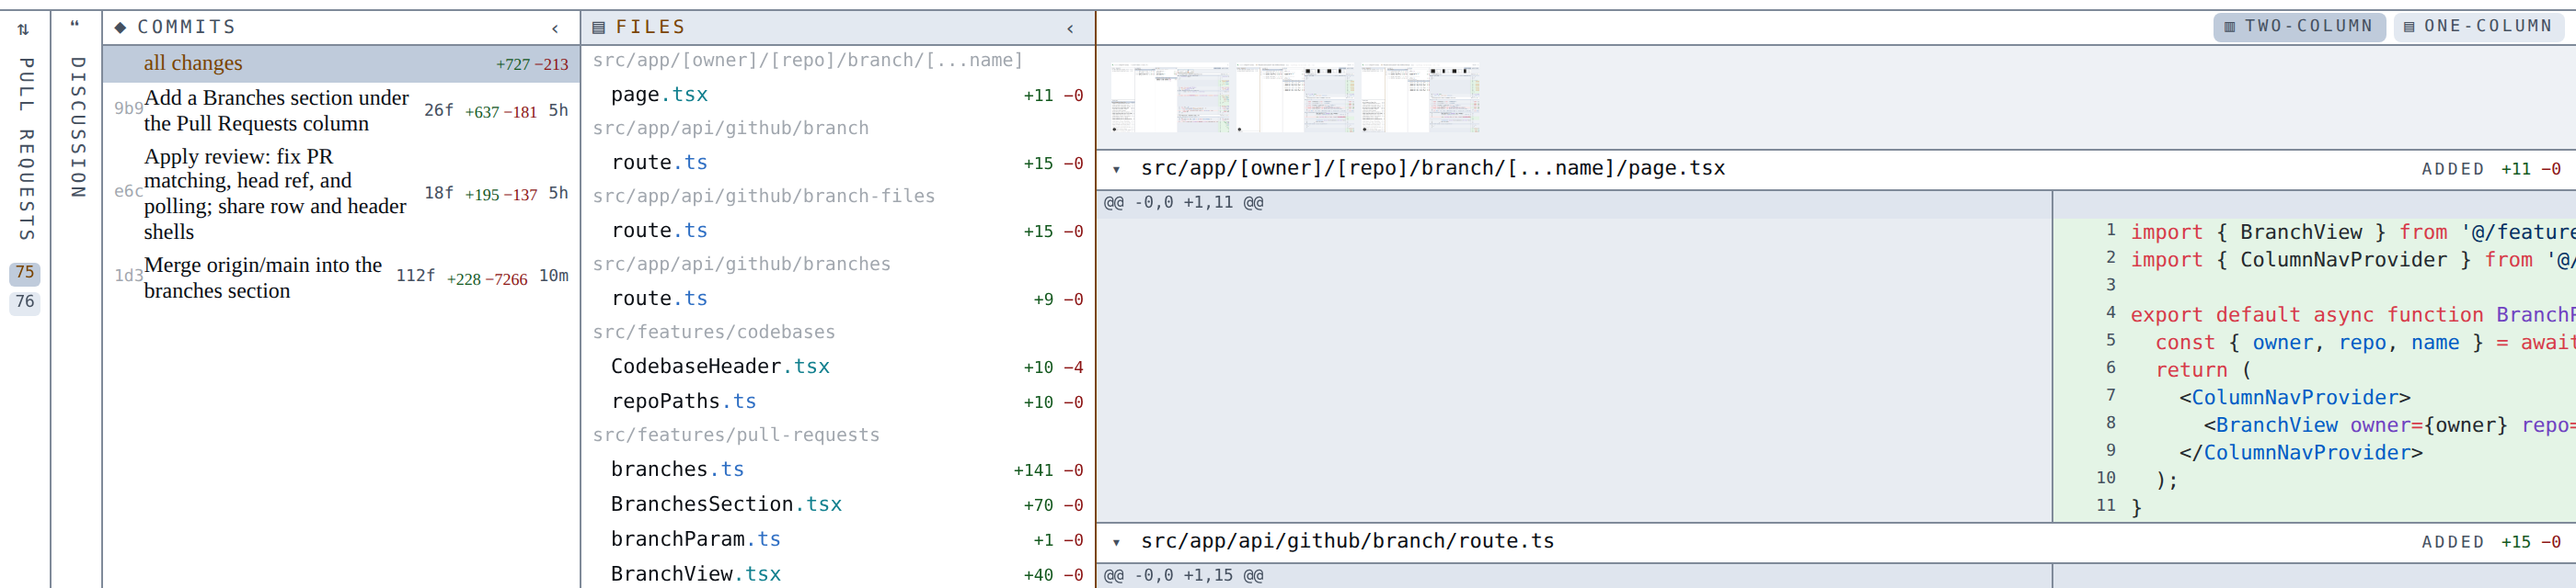
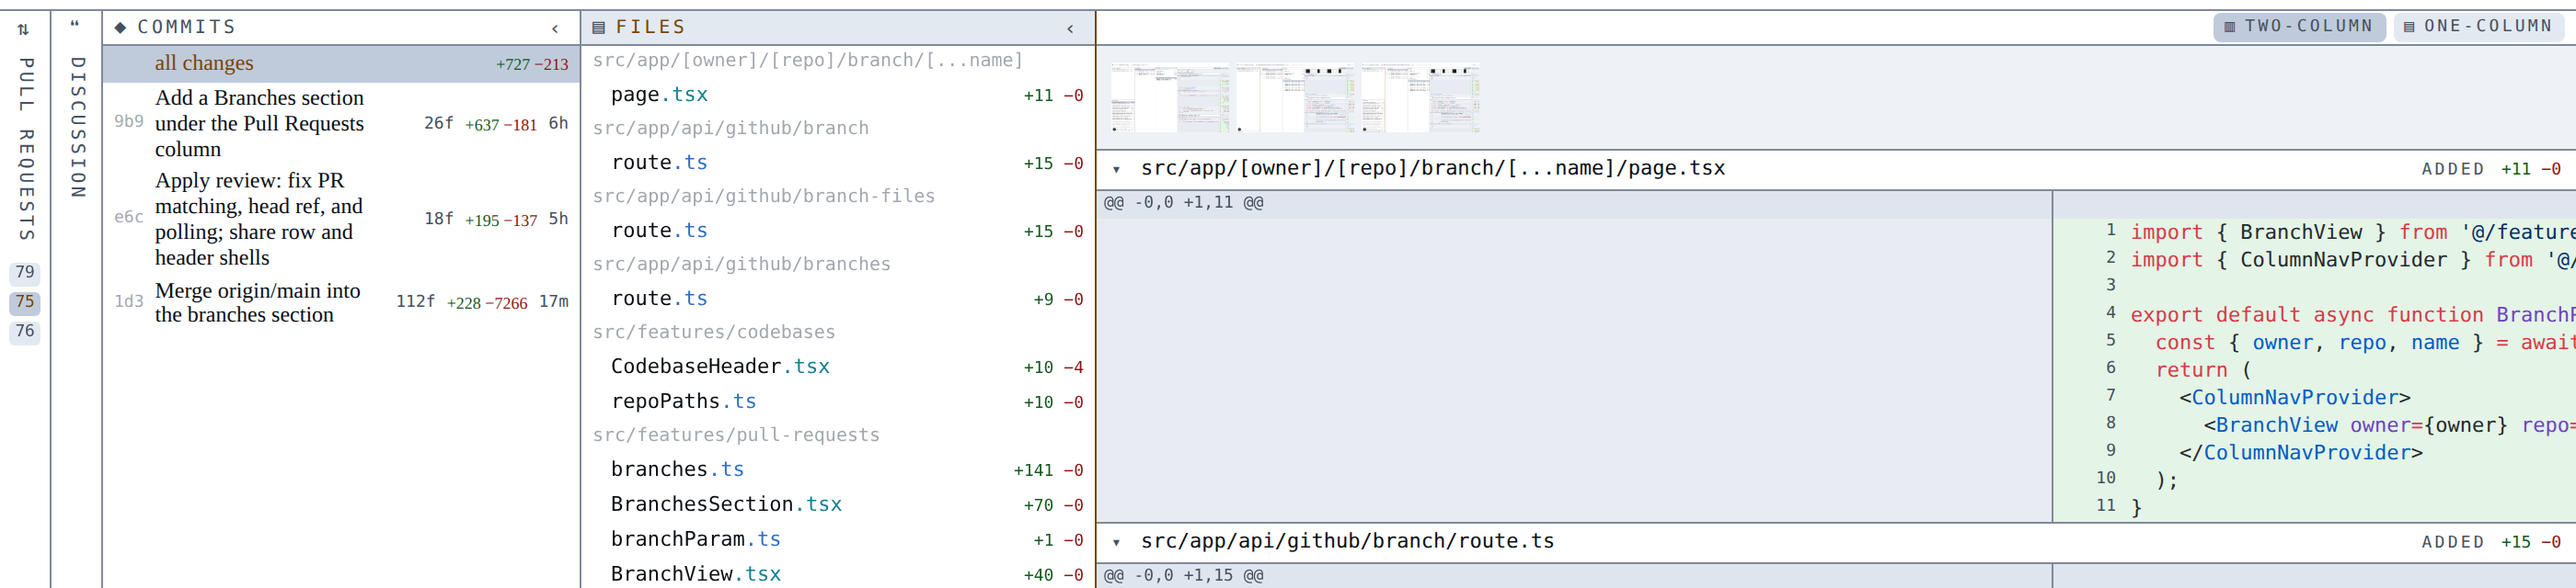
Apply review: share the pull row fields and harden hash copying
Pull request rows in both lists now render one shared field set, the note
and metadata class strings live in one place, and the commit hash column
is reserved with an explicit width so the all-changes row lines up. Copying
clears its own timer, only reports success once the clipboard resolves, and
hovering the hash moves the nav cursor like the rest of the row.

Claude-Session: https://claude.ai/code/session_012oJ24Rhby7hYW67KW42Sbo

Changed region(s): [[0.0, 0.1562, 0.2175, 0.5938], [0.0621, 0.0938, 0.0932, 0.125]]

diff --git a/src/features/pull-requests/PullCommitColumn.tsx b/src/features/pull-requests/PullCommitColumn.tsx
@@ -1,17 +1,18 @@
 'use client';
 
-import { useState, type ReactNode } from 'react';
+import { useEffect, useRef, useState, type ReactNode } from 'react';
 import { ChangeCounts } from './ChangeCounts';
 import type { PreviewToken } from './ColumnPreview';
 import { useColumnNav, type ColumnRow } from './columnNav';
+import { ROW_META } from './PullListRow';
 import type { PullRequestCommits } from './pullRequests';
 import { HoverCardTrigger } from '@/features/surface-ui/HoverCard';
 import { RelativeTime } from '@/features/surface-ui/RelativeTime';
 import { rowStateClass } from '@/features/surface-ui/rowState';
 import { SelectableRow } from '@/features/surface-ui/SelectableRow';
 
-const ROW = 'flex w-full items-center gap-1.5 py-[2px] pr-1.5 text-left font-serif text-[12px] leading-[1.15]';
-const META = 'shrink-0 font-mono text-[9px]';
+const ROW = 'flex w-full items-center gap-1.5 px-1.5 py-[2px] text-left font-serif text-[12px] leading-[1.15]';
+const HASH = 'ml-1.5 w-[3ch] shrink-0 font-mono text-[9px]';
 const HASH_CHARS = 3;
 const COPIED_MS = 1200;
 export const WHOLE_PULL = 'all';
@@ -29,16 +30,21 @@ export function PullCommitColumn({
   const rowFor = (item: string) => nav.row(item, item === selection);
   return (
     <>
-      <CommitRow row={rowFor(WHOLE_PULL)} onActivate={() => onSelect(WHOLE_PULL)}>
+      <CommitRow row={rowFor(WHOLE_PULL)} onActivate={() => onSelect(WHOLE_PULL)} leading={<span aria-hidden className={HASH} />}>
         <span className="min-w-0 flex-1">all changes</span>
         <ChangeCounts additions={pull.additions} deletions={pull.deletions} />
       </CommitRow>
       {pull.commits.map((commit) => (
-        <CommitRow key={commit.sha} row={rowFor(commit.sha)} onActivate={() => onSelect(commit.sha)} sha={commit.sha}>
+        <CommitRow
+          key={commit.sha}
+          row={rowFor(commit.sha)}
+          onActivate={() => onSelect(commit.sha)}
+          leading={<CopyHash sha={commit.sha} />}
+        >
           <span className="min-w-0 flex-1 break-words">{commit.message}</span>
-          <span className={`${META} text-ink-dim`}>{commit.fileCount}f</span>
+          <span className={ROW_META}>{commit.fileCount}f</span>
           <ChangeCounts additions={commit.additions} deletions={commit.deletions} />
-          <RelativeTime iso={commit.date} className={`${META} text-ink-dim`} />
+          <RelativeTime iso={commit.date} className={ROW_META} />
         </CommitRow>
       ))}
     </>
@@ -48,17 +54,21 @@ export function PullCommitColumn({
 function CommitRow({
   row,
   onActivate,
-  sha,
+  leading,
   children,
 }: {
   row: ColumnRow;
   onActivate: () => void;
-  sha?: string;
+  leading: ReactNode;
   children: ReactNode;
 }) {
   return (
-    <div className={`flex items-center ${rowStateClass(row.state)}`}>
-      {sha ? <CopyHash sha={sha} /> : <span className={`${META} pl-1.5`}>{' '.repeat(HASH_CHARS)}</span>}
+    <div
+      data-nav-cursor={row.props.cursor || undefined}
+      onPointerEnter={row.props.onPointerEnter}
+      className={`flex items-center ${rowStateClass(row.state)}`}
+    >
+      {leading}
       <SelectableRow {...row.props} onActivate={onActivate} className={ROW}>
         {children}
       </SelectableRow>
@@ -66,20 +76,30 @@ function CommitRow({
   );
 }
 
-function CopyHash({ sha }: { sha: string }) {
+function useCopiedFlag(): [boolean, () => void] {
   const [copied, setCopied] = useState(false);
-  const copy = () => {
-    void navigator.clipboard.writeText(sha);
-    setCopied(true);
-    setTimeout(() => setCopied(false), COPIED_MS);
-  };
+  const timer = useRef<ReturnType<typeof setTimeout>>(undefined);
+  useEffect(() => () => clearTimeout(timer.current), []);
+  return [
+    copied,
+    () => {
+      setCopied(true);
+      clearTimeout(timer.current);
+      timer.current = setTimeout(() => setCopied(false), COPIED_MS);
+    },
+  ];
+}
+
+function CopyHash({ sha }: { sha: string }) {
+  const [copied, markCopied] = useCopiedFlag();
+  const copy = () => void navigator.clipboard?.writeText(sha).then(markCopied, () => {});
   return (
     <HoverCardTrigger label={copied ? `copied ${sha}` : `copy ${sha}`} className="shrink-0" focusable={false} tooltipStyle>
       <button
         type="button"
         aria-label={`Copy commit hash ${sha}`}
         onClick={copy}
-        className={`${META} pl-1.5 hover:text-accent ${copied ? 'text-accent' : 'text-ink-dim/50'}`}
+        className={`${HASH} text-left hover:text-accent ${copied ? 'text-accent' : 'text-ink-dim/50'}`}
       >
         {sha.slice(0, HASH_CHARS)}
       </button>

diff --git a/src/features/pull-requests/PullRequestList.tsx b/src/features/pull-requests/PullRequestList.tsx
@@ -2,13 +2,12 @@
 
 import { usePathname } from 'next/navigation';
 import type { PullRequestSummary } from './pullRequests';
-import { PullListRow } from './PullListRow';
+import { LIST_NOTE, PullListRow, PullRowFields } from './PullListRow';
 import { useStandingRepoPulls } from './pullActionStore';
 import { pullRoute, repoPullsPath } from './pullPaths';
 import type { RepoRef } from '@/features/sources/parseRepoLink';
 import { useGithubToken, useStoreReady } from '@/features/sources/sourceStore';
 import { useCachedJson } from '@/features/sources/useCachedJson';
-import { timeAgo } from '@/features/surface-ui/timeAgo';
 
 export function PullRequestList({ repo }: { repo: RepoRef }) {
   const ready = useStoreReady();
@@ -18,14 +17,14 @@ export function PullRequestList({ repo }: { repo: RepoRef }) {
   const standingPulls = useStandingRepoPulls(repo.owner, repo.name, pulls);
 
   if (!pulls) {
-    if (error) return <p className="px-2 py-1 text-[11px] leading-4 text-error-ink">{error}</p>;
-    return <p className="px-2 py-1 text-[11px] leading-4 text-ink-dim">Loading…</p>;
+    if (error) return <p className={`${LIST_NOTE} text-error-ink`}>{error}</p>;
+    return <p className={`${LIST_NOTE} text-ink-dim`}>Loading…</p>;
   }
-  if (standingPulls.length === 0) return <p className="px-2 py-1 text-[11px] leading-4 text-ink-dim">No open pull requests.</p>;
+  if (standingPulls.length === 0) return <p className={`${LIST_NOTE} text-ink-dim`}>No open pull requests.</p>;
 
   return (
     <nav className="min-h-0 flex-1 overflow-auto py-[1px]">
-      {error && <p className="px-2 py-1 text-[11px] leading-4 text-error-ink">{error}</p>}
+      {error && <p className={`${LIST_NOTE} text-error-ink`}>{error}</p>}
       {standingPulls.map((pull) => {
         const href = pullRoute(repo.owner, repo.name, pull.number);
         return (
@@ -35,12 +34,7 @@ export function PullRequestList({ repo }: { repo: RepoRef }) {
             href={href}
             current={pathname === href}
           >
-            <span className="shrink-0 font-mono text-[9px] text-ink-dim">#{pull.number}</span>
-            <span className="min-w-0 flex-1 break-words">{pull.title}</span>
-            {pull.draft && <span className="shrink-0 rounded bg-btn px-1 text-[9px]">draft</span>}
-            <span className="shrink-0 font-mono text-[9px] text-ink-dim">
-              {pull.author} · {timeAgo(pull.updatedAt)}
-            </span>
+            <PullRowFields pull={pull} />
           </PullListRow>
         );
       })}

diff --git a/src/features/pull-requests/AllPullRequestList.tsx b/src/features/pull-requests/AllPullRequestList.tsx
@@ -3,14 +3,12 @@
 import { usePathname } from 'next/navigation';
 import { useState } from 'react';
 import { useColumnNav } from './columnNav';
-import { PullListRow } from './PullListRow';
+import { LIST_NOTE as NOTE, PullListRow, PullRowFields, ROW_META } from './PullListRow';
 import { useStandingPulls } from './pullActionStore';
 import { allPullsRoute, pullRoute } from './pullPaths';
 import type { CrossRepoPull } from './pullRequests';
 import { useAllPullRequests } from './useAllPullRequests';
-import { timeAgo } from '@/features/surface-ui/timeAgo';
 
-const NOTE = 'px-2 py-1 text-[11px] leading-4';
 const WEEK_MS = 7 * 24 * 60 * 60 * 1000;
 
 function updatedWithinLastWeek(pull: CrossRepoPull): boolean {
@@ -90,15 +88,10 @@ function PullRow({
       href={allPullsRoute(pull.owner, pull.repo, pull.number)}
       current={pathname === pullRoute(pull.owner, pull.repo, pull.number)}
     >
-      <span className="shrink-0 truncate font-mono text-[9px] text-ink-dim" style={{ width: `${repoColumnCh}ch` }}>
+      <span className={`${ROW_META} truncate`} style={{ width: `${repoColumnCh}ch` }}>
         {pull.repo}
       </span>
-      <span className="shrink-0 font-mono text-[9px] text-ink-dim">#{pull.number}</span>
-      <span className="min-w-0 flex-1 break-words">{pull.title}</span>
-      {pull.draft && <span className="shrink-0 rounded bg-btn px-1 text-[9px]">draft</span>}
-      <span className="shrink-0 font-mono text-[9px] text-ink-dim">
-        {pull.author} · {timeAgo(pull.updatedAt)}
-      </span>
+      <PullRowFields pull={pull} />
     </PullListRow>
   );
 }

diff --git a/src/features/pull-requests/PullListRow.tsx b/src/features/pull-requests/PullListRow.tsx
@@ -11,6 +11,31 @@ import { useGithubToken } from '@/features/sources/sourceStore';
 import { HoverCardTrigger } from '@/features/surface-ui/HoverCard';
 import { rowStateClass } from '@/features/surface-ui/rowState';
 import { SelectableLink } from '@/features/surface-ui/SelectableLink';
+import { timeAgo } from '@/features/surface-ui/timeAgo';
+
+interface PullRowSummary {
+  number: number;
+  title: string;
+  draft: boolean;
+  author: string;
+  updatedAt: string;
+}
+
+export const ROW_META = 'shrink-0 font-mono text-[9px] text-ink-dim';
+export const LIST_NOTE = 'px-2 py-1 text-[11px] leading-4';
+
+export function PullRowFields({ pull }: { pull: PullRowSummary }) {
+  return (
+    <>
+      <span className={ROW_META}>#{pull.number}</span>
+      <span className="min-w-0 flex-1 break-words">{pull.title}</span>
+      {pull.draft && <span className="shrink-0 rounded bg-btn px-1 font-mono text-[9px]">draft</span>}
+      <span className={ROW_META}>
+        {pull.author} · {timeAgo(pull.updatedAt)}
+      </span>
+    </>
+  );
+}
 
 export function PullListRow({
   target,
